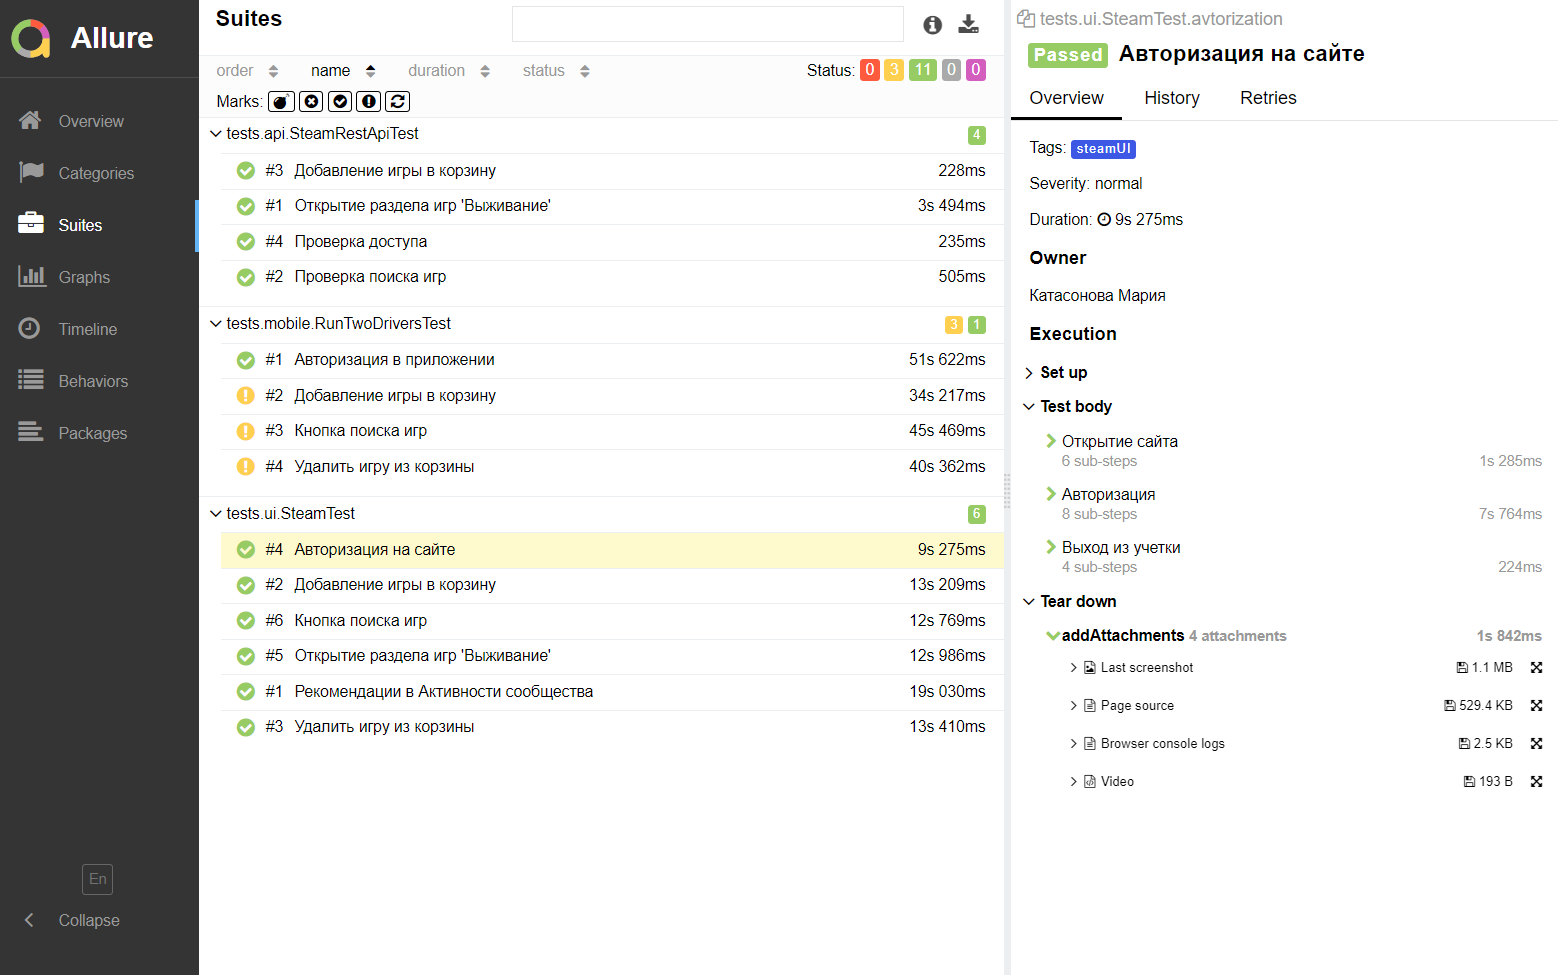
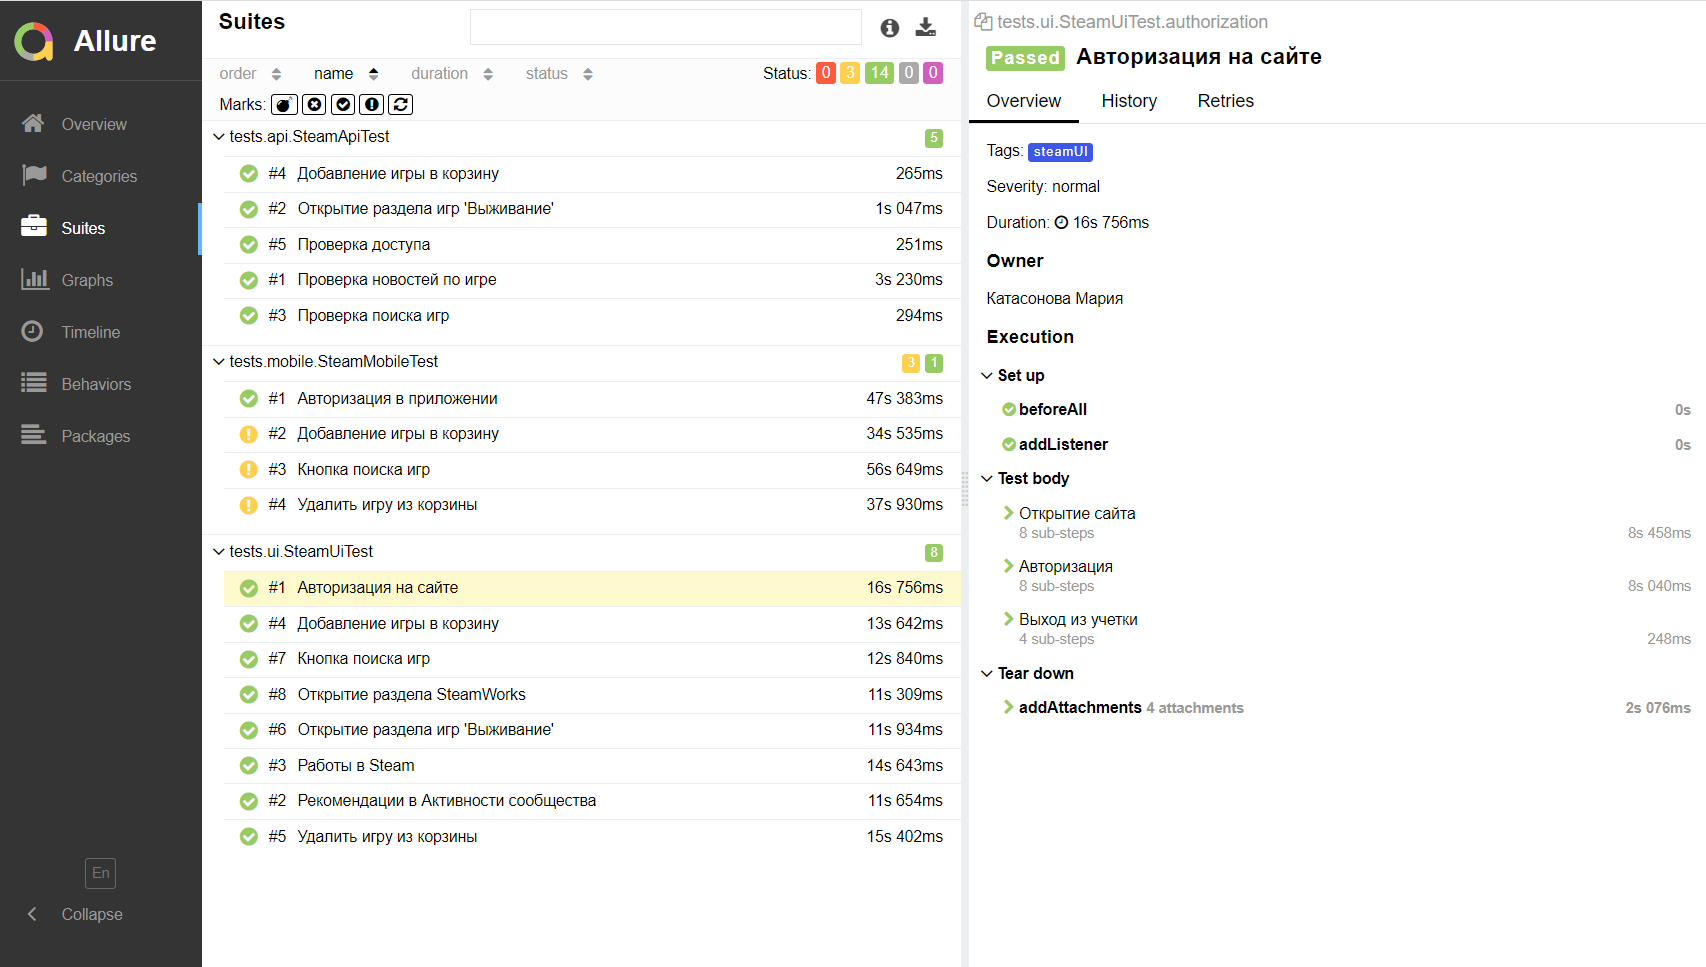
true

diff --git a/README.md b/README.md
@@ -22,6 +22,7 @@
 + [:bar_chart: Интеграция с Allure TestOps](#Integration_Allure_TestOps)
     + [Экран с результатами запуска тестов](#Интеграция_с_Allure_TestOps1)
     + [Страница с тестами в TestOps](#Интеграция_с_Allure_TestOps2)
+    + [Страница с тестами из Launches в Allure TestOps](#Интеграция_с_Allure_TestOps3)
 + [:bar_chart: Примеры сборок в Brawserstack](#Integration_Brawserstack)
   + [Экран с результатами запуска тестов](#Integration_Brawserstack)
 + [:chart_with_upwards_trend: Интеграция с Jira](#Integration_Jira)
@@ -162,7 +163,7 @@ ${TASK}
 -Dbaseurl=${BASEURL}
 -Dselenoid_url=${SELENOID_URL}
 ```
-<a name="Allure_report"><h2>:chart_with_downwards_trend: [Allure](https://jenkins.autotests.cloud/job/DiplomaSteam/23/allure/) отчет</h2></a>
+<a name="Allure_report"><h2>:chart_with_downwards_trend: [Allure](https://jenkins.autotests.cloud/job/DiplomaSteam/135/allure/) отчет</h2></a>
 
 - <a name="Allure_report1"><h3>Главный экран отчета</h3></a>
 
@@ -172,16 +173,20 @@ ${TASK}
 
 ![This is an image](design/pictures/allure1.png)
 
-<a name="Integration_Allure_TestOps"><h2>:bar_chart: Интеграция с Allure [TestOps](https://allure.autotests.cloud/launch/24091)</h2></a>
+<a name="Integration_Allure_TestOps"><h2>:bar_chart: Интеграция с Allure [TestOps](https://allure.autotests.cloud/launch/24406)</h2></a>
 
 - <a name="Integration_Allure_TestOps1"><h3>Экран с результатами запуска тестов</h3></a>
 
 ![This is an image](design/pictures/allureTestsOp.png)
 
 
-- <a name="Integration_Allure_TestOps2"><h3>Страница с тестами в [TestOps](https://allure.autotests.cloud/launch/24091/tree?treeId=4235)</h3></a>
+- <a name="Integration_Allure_TestOps2"><h3>Страница с тестами в [TestOps](https://allure.autotests.cloud/project/2188/test-cases?treeId=4235)</h3></a>
 
 ![This is an image](design/pictures/allureTestsOp1.png)
+
+- <a name="Integration_Allure_TestOps3"><h3>Страница с тестами из Launches в [Allure TestOps](https://allure.autotests.cloud/launch/24406)</h3></a>
+
+![This is an image](design/pictures/allureTestsOp2.png)
 
 <a name="Integration_Brawserstack"><h2>:bar_chart: Примеры сборок в [Brawserstack](https://app-automate.browserstack.com/dashboard/v2/builds/6ce43e9d8252a282c5b3227aae9b96b0e0529f3d/sessions/74f9e6147da1a2ba8a56923f860b620fc5fe401a)</h2></a>
 
